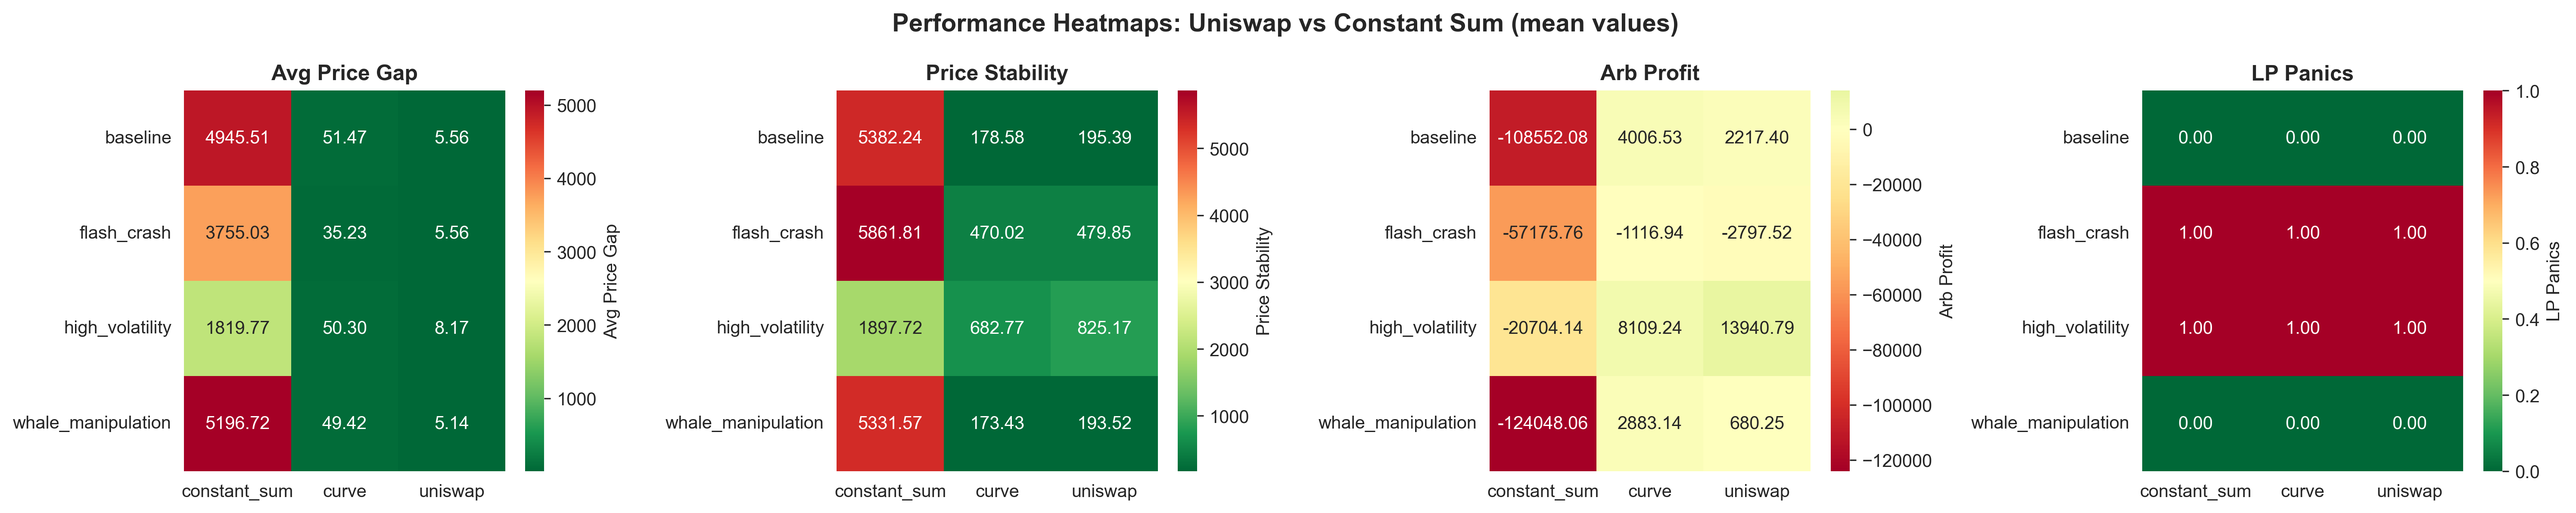
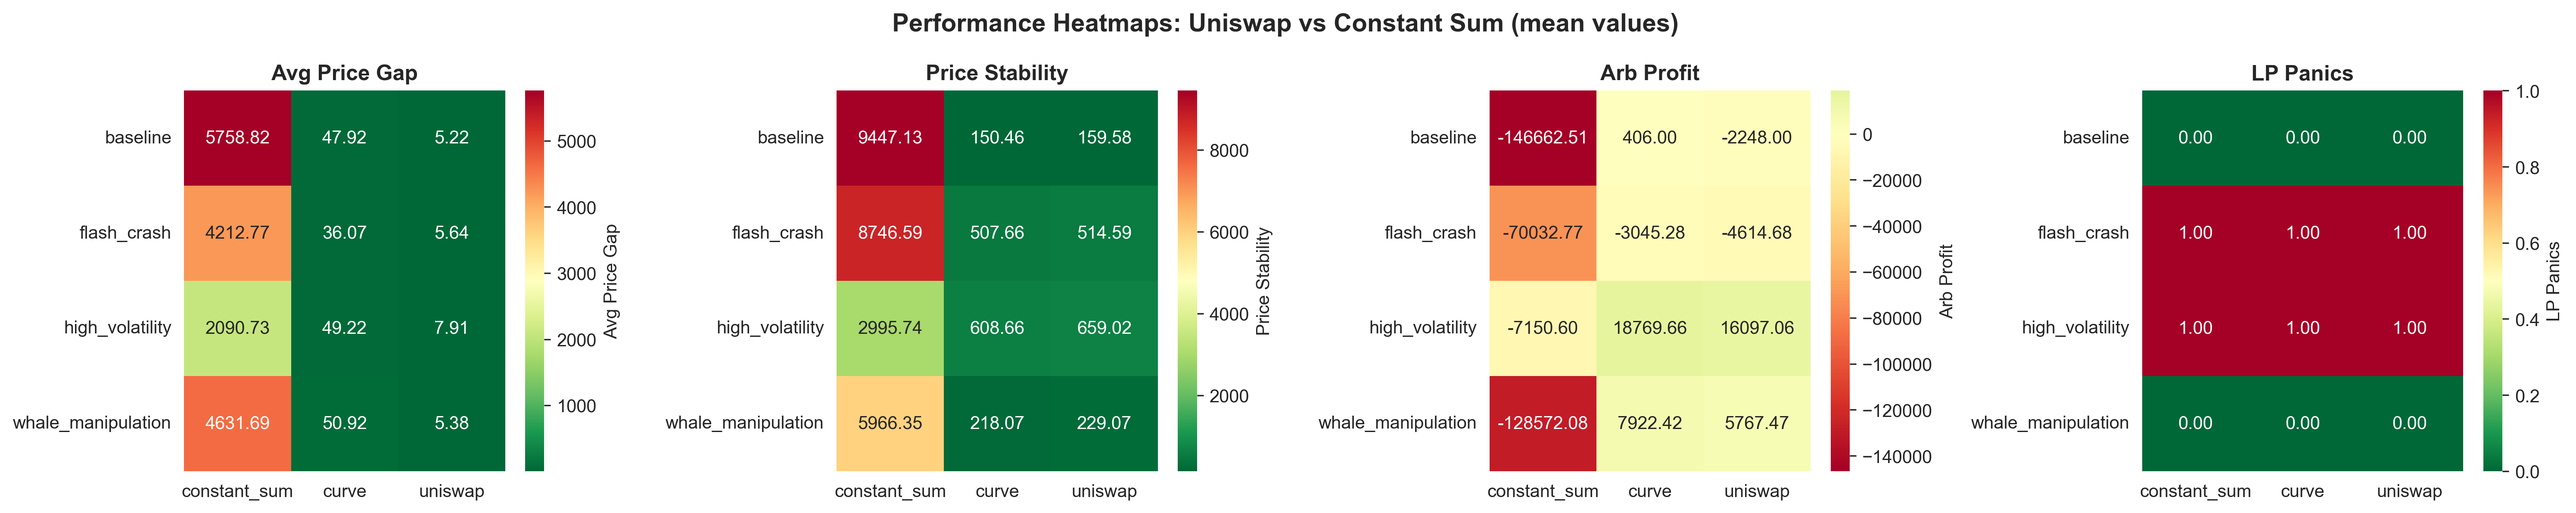
Updates

diff --git a/source/trader.py b/source/trader.py
@@ -197,40 +197,52 @@ class SmartTrader(Trader):
         self.max_slippage = max_slippage  # 2% max tolerated slippage
     
     def _try_buy(self, amm, verbose):
-        """Buys only if slippage is acceptable"""
+        """Buys only if slippage is acceptable (FIXED VERSION)"""
         if not self.can_afford("USDC", self.min_trade_usdc):
             return
         
         max_spend = min(self.wallet["USDC"], self.max_trade_usdc)
         usdc_in = random.uniform(self.min_trade_usdc, max_spend)
+                
+        # 1. Calcola quanto ETH riceverai realmente
+        actual_eth_out = amm.calculate_swap_output(usdc_in, amm.y, amm.x)
         
-        # Calculate expected slippage
-        current_price = amm.get_price_y_to_x()
-        expected_eth = usdc_in / current_price
-        actual_eth = amm.calculate_swap_output(usdc_in, amm.y, amm.x)
-        slippage = abs(actual_eth - expected_eth) / expected_eth
+        # 2. Calcola il prezzo effettivo dello swap
+        effective_price = usdc_in / actual_eth_out  # USDC per 1 ETH effettivo
+        
+        # 3. Calcola il prezzo spot di mercato (riferimento)
+        spot_price = amm.get_price_y_to_x()  # USDC per 1 ETH prima dello swap
+        
+        # 4. Slippage = differenza tra prezzo effettivo e prezzo spot
+        slippage = abs(effective_price - spot_price) / spot_price
         
         if slippage > self.max_slippage:
             if verbose:
                 print(f"[{self.name}] Slippage too high ({slippage:.2%}), skip buy")
             return
-        
+    
         # Proceed with the trade
         super()._try_buy(amm, verbose)
 
     def _try_sell(self, amm, verbose):
-        """Sells only if slippage is acceptable"""
+        """Sells only if slippage is acceptable (FIXED VERSION)"""
         if not self.can_afford("ETH", self.min_trade_eth):
             return
         
         max_sell = min(self.wallet["ETH"], self.max_trade_eth)
         eth_in = random.uniform(self.min_trade_eth, max_sell)
+                
+        # 1. Calcola quanto USDC riceverai realmente
+        actual_usdc_out = amm.calculate_swap_output(eth_in, amm.x, amm.y)
         
-        # Calculate expected slippage
-        current_price = amm.get_price_x_to_y()
-        expected_usdc = eth_in * current_price
-        actual_usdc = amm.calculate_swap_output(eth_in, amm.x, amm.y)
-        slippage = abs(actual_usdc - expected_usdc) / expected_usdc
+        # 2. Calcola il prezzo effettivo dello swap
+        effective_price = actual_usdc_out / eth_in  # USDC per 1 ETH effettivo
+        
+        # 3. Calcola il prezzo spot di mercato
+        spot_price = amm.get_price_x_to_y()  # USDC per 1 ETH prima dello swap
+        
+        # 4. Slippage = differenza tra prezzo effettivo e prezzo spot
+        slippage = abs(effective_price - spot_price) / spot_price
         
         if slippage > self.max_slippage:
             if verbose:

diff --git a/source/experiments.py b/source/experiments.py
@@ -55,7 +55,7 @@ class ExperimentRunner:
             ("high_volatility", self.run_high_volatility_experiment, {"volatility_multiplier": 5.0})
         ]
         
-        total_runs = len(experiments) * 2 * num_runs  # 4 exp × 2 AMMs × num_runs
+        total_runs = len(experiments) * 3 * num_runs  # 4 exp × 3 AMMs × num_runs
         current_run = 0
         
         for amm_type in ["uniswap", "constant_sum", "curve"]:
@@ -208,11 +208,12 @@ class ExperimentRunner:
         
         try:
             sim = Simulation(amm_type=amm_type)
+            original_step = sim.step
 
         finally:
             sys.stdout = old_stdout
         
-        original_step = sim.step
+        
         
         def high_volatility_step(verbose=False):
             sim.step_count += 1

diff --git a/source/run_simulation.py b/source/run_simulation.py
@@ -122,7 +122,6 @@ class Simulation:
             print(f"⚡ Price: {old_price:.2f} → {self.market_price:.2f} USDC/ETH ({percent:+.1%})")
             print(f"{'⚡'*5}\n")
             
-            # --- AGGIUNGI QUESTO BLOCCO ---
             # Calcola la volatilità come valore assoluto dello shock
             shock_volatility = abs(percent)
             

diff --git a/source/amm_curve.py b/source/amm_curve.py
@@ -89,7 +89,7 @@ class CurveStableSwapAMM:
     
     def get_invariant(self):
         """
-        Calculate Curve's StableSwap invariant - FIXED
+        Calculate Curve's StableSwap invariant - simplified
         """
         x, y = self.x, self.y
         
